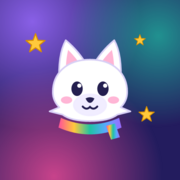
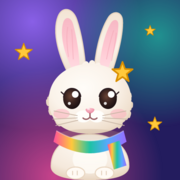
Redraw Luna as a cute, more realistic bunny
Replace the snow fox with a sitting bunny: shaded cream fur with soft
cheek fluff, tall ears with pink insides, glossy eyes with lids and
lashes, a pink nose, whiskers, muzzle puffs and paws. She keeps the
rainbow scarf and star clip. The app icons are redrawn to match, and
the offline cache now has an app revision so tablets pick up new icons.

Claude-Session: https://claude.ai/code/session_01DVXaZMoDDKzRyybnBRYQNy

diff --git a/index.html b/index.html
@@ -4,7 +4,7 @@
 <meta charset="utf-8">
 <meta name="viewport" content="width=device-width, initial-scale=1, viewport-fit=cover, user-scalable=no">
 <title>Word Snap Showdown</title>
-<meta name="description" content="A two-player reading race: Luna the snow fox says a word, and a young reader races a grown-up to tap it.">
+<meta name="description" content="A two-player reading race: Luna the bunny says a word, and a young reader races a grown-up to tap it.">
 <meta name="theme-color" content="#1c1748">
 <meta name="mobile-web-app-capable" content="yes">
 <meta name="apple-mobile-web-app-capable" content="yes">
@@ -78,7 +78,7 @@ button{font:inherit;color:inherit;cursor:pointer;touch-action:manipulation}
 .title .l{display:inline-block;color:var(--c);text-shadow:0 .07em 0 rgba(10,6,40,.5);animation:wave 2.6s ease-in-out infinite;animation-delay:calc(var(--i) * .09s)}
 .hello{margin:0;font-family:var(--font-display);font-weight:700;font-size:clamp(1.2rem,3.4vw,1.9rem);color:var(--frost)}
 .luna-wrap{position:relative;width:clamp(150px,40vmin,340px);max-width:100%;aspect-ratio:1;display:grid;place-items:center}
-.luna-btn{appearance:none;border:0;background:none;padding:0;width:74%;border-radius:50%}
+.luna-btn{appearance:none;border:0;background:none;padding:0;width:80%;border-radius:50%}
 .luna.idle svg{animation:float 3s ease-in-out infinite}
 .luna.idle.bounce svg{animation:hop .75s cubic-bezier(.3,1.5,.5,1)}
 .orbit{position:absolute;inset:0;pointer-events:none;animation:spin 12s linear infinite}
@@ -210,7 +210,7 @@ button{font:inherit;color:inherit;cursor:pointer;touch-action:manipulation}
 
 /* hub */
 .hub{display:flex;align-items:center;gap:12px;min-width:0;padding-inline:4px}
-.hub .luna{width:clamp(56px,9vw,86px);flex:none}
+.hub .luna{width:clamp(48px,7.4vw,72px);flex:none}
 .bubble{flex:1;min-width:0;background:var(--snow);color:var(--ink);font-family:var(--font-display);font-weight:700;font-size:clamp(1rem,2.7vw,1.55rem);line-height:1.2;padding:.55em .9em;border-radius:20px;position:relative;text-wrap:balance}
 .bubble::before{content:"";position:absolute;left:-11px;top:50%;margin-top:-10px;border-style:solid;border-width:10px 12px 10px 0;border-color:transparent var(--snow) transparent transparent}
 .round-btn{appearance:none;width:clamp(52px,8vw,72px);height:clamp(52px,8vw,72px);border-radius:50%;border:0;display:grid;place-items:center;flex:none;padding:0}
@@ -279,9 +279,13 @@ body{overscroll-behavior:none;-webkit-touch-callout:none;-webkit-text-size-adjus
 
 <svg width="0" height="0" style="position:absolute" aria-hidden="true" focusable="false">
   <defs>
-    <linearGradient id="lunaScarf" x1="0" x2="1" y1="0" y2="0">
-      <stop offset="0" stop-color="#ff4f9a"/><stop offset=".25" stop-color="#ffc93c"/><stop offset=".5" stop-color="#1fc3a5"/><stop offset=".75" stop-color="#5aa9ff"/><stop offset="1" stop-color="#9b6bff"/>
-    </linearGradient>
+<linearGradient id="lunaScarf" x1="0" x2="1" y1="0" y2="0"><stop offset="0" stop-color="#ff4f9a"/><stop offset=".25" stop-color="#ffc93c"/><stop offset=".5" stop-color="#1fc3a5"/><stop offset=".75" stop-color="#5aa9ff"/><stop offset="1" stop-color="#9b6bff"/></linearGradient>
+<radialGradient id="bunFur" cx=".42" cy=".34" r=".78"><stop offset="0" stop-color="#fffdf9"/><stop offset=".5" stop-color="#fbf3ea"/><stop offset=".82" stop-color="#efdfcd"/><stop offset="1" stop-color="#ddc6ad"/></radialGradient>
+<linearGradient id="bunEar" x1="0" x2="0" y1="0" y2="1"><stop offset="0" stop-color="#f2e3d2"/><stop offset=".55" stop-color="#fbf3ea"/><stop offset="1" stop-color="#efe0cf"/></linearGradient>
+<linearGradient id="bunEarIn" x1="0" x2="0" y1="0" y2="1"><stop offset="0" stop-color="#f7b8c4"/><stop offset=".6" stop-color="#ffc9d3"/><stop offset="1" stop-color="#ffdbe2"/></linearGradient>
+<radialGradient id="bunEye" cx=".42" cy=".38" r=".7"><stop offset="0" stop-color="#6b4436"/><stop offset=".45" stop-color="#3a2420"/><stop offset="1" stop-color="#140c0f"/></radialGradient>
+<radialGradient id="bunNose" cx=".45" cy=".3" r=".8"><stop offset="0" stop-color="#ffc2cf"/><stop offset="1" stop-color="#e57f98"/></radialGradient>
+<radialGradient id="bunBody" cx=".5" cy=".2" r=".9"><stop offset="0" stop-color="#fffcf7"/><stop offset=".7" stop-color="#f5e9dc"/><stop offset="1" stop-color="#e2ccb4"/></radialGradient>
   </defs>
 </svg>
 <div class="sky" aria-hidden="true"></div>
@@ -438,25 +442,7 @@ const starSvg=cls=>`<svg class="${cls||""}" viewBox="0 0 100 100" aria-hidden="t
 const SPEAKER=`<svg viewBox="0 0 24 24" aria-hidden="true"><path d="M3.5 9.2v5.6h3.9l5 4.2V5l-5 4.2z" fill="currentColor"/><path d="M15.6 8.6a4.8 4.8 0 0 1 0 6.8M18.2 6a8.4 8.4 0 0 1 0 12" fill="none" stroke="currentColor" stroke-width="2.2" stroke-linecap="round"/></svg>`;
 const PAUSE=`<svg viewBox="0 0 24 24" aria-hidden="true"><rect x="6" y="5" width="4" height="14" rx="1.5" fill="currentColor"/><rect x="14" y="5" width="4" height="14" rx="1.5" fill="currentColor"/></svg>`;
 const FLAKE=`<svg viewBox="0 0 48 48" aria-hidden="true"><g fill="none" stroke="currentColor" stroke-width="3.4" stroke-linecap="round"><path d="M24 4v40M6.7 14l34.6 20M6.7 34l34.6-20"/><path d="M18 8l6 5 6-5M18 40l6-5 6 5M7.5 21l7.3-1.2L12.2 13M40.5 27l-7.3 1.2 2.6 6.8M7.5 27l7.3 1.2-2.6 6.8M40.5 21l-7.3-1.2 2.6-6.8"/></g></svg>`;
-const LUNA=`<svg viewBox="0 0 120 134" aria-hidden="true">
-  <path d="M22 62 Q20 26 30 8 Q47 22 58 42 Z" fill="#fff" stroke="#d8d0f6" stroke-width="2" stroke-linejoin="round"/>
-  <path d="M98 62 Q100 26 90 8 Q73 22 62 42 Z" fill="#fff" stroke="#d8d0f6" stroke-width="2" stroke-linejoin="round"/>
-  <path d="M30 50 Q30 32 33 20 Q43 30 49 40 Z" fill="#ffb6d5"/>
-  <path d="M90 50 Q90 32 87 20 Q77 30 71 40 Z" fill="#ffb6d5"/>
-  <path d="M60 32 C90 32 106 50 106 72 C106 80 103 86 98 91 L110 96 L94 100 C86 106 74 108 60 108 C46 108 34 106 26 100 L10 96 L22 91 C17 86 14 80 14 72 C14 50 30 32 60 32 Z" fill="#fff" stroke="#d8d0f6" stroke-width="2" stroke-linejoin="round"/>
-  <ellipse cx="60" cy="88" rx="21" ry="14" fill="#f1edff"/>
-  <g class="luna-eyes">
-    <ellipse cx="44" cy="68" rx="7" ry="9" fill="#241f4f"/><ellipse cx="76" cy="68" rx="7" ry="9" fill="#241f4f"/>
-    <circle cx="46.8" cy="64.2" r="2.6" fill="#fff"/><circle cx="78.8" cy="64.2" r="2.6" fill="#fff"/>
-    <circle cx="42" cy="71.5" r="1.2" fill="#fff" opacity=".8"/><circle cx="74" cy="71.5" r="1.2" fill="#fff" opacity=".8"/>
-  </g>
-  <path d="M54.5 80 Q60 77 65.5 80 Q63 85.5 60 85.5 Q57 85.5 54.5 80 Z" fill="#241f4f"/>
-  <path d="M51 90 Q55.5 95 60 90.5 Q64.5 95 69 90" fill="none" stroke="#241f4f" stroke-width="2.4" stroke-linecap="round"/>
-  <ellipse cx="31" cy="82" rx="7" ry="4.5" fill="#ff8fc0" opacity=".65"/><ellipse cx="89" cy="82" rx="7" ry="4.5" fill="#ff8fc0" opacity=".65"/>
-  <path transform="translate(79 31) scale(.22)" d="${STAR_PATH}" fill="#ffc93c" stroke="#d98f00" stroke-width="7" stroke-linejoin="round"/>
-  <path d="M24 104 Q60 120 96 104 L99 116 Q60 133 21 116 Z" fill="url(#lunaScarf)"/>
-  <path d="M80 114 L86 131 L97 128 L91 111 Z" fill="url(#lunaScarf)"/>
-</svg>`;
+const LUNA=`<svg viewBox="0 0 120 150" aria-hidden="true"><path d="M26.5 138C26.5 122 40 110.5 60 110.5C80 110.5 93.5 122 93.5 138C93.5 146.5 80 149.6 60 149.6C40 149.6 26.5 146.5 26.5 138Z" fill="url(#bunBody)" stroke="#e9d6c1" stroke-width=".9"/><ellipse cx="60" cy="132" rx="15" ry="12.5" fill="#fffdf9" opacity=".75"/><path d="M43 61C33.5 45 27 23 32.5 9C36 0 45 1.5 48.5 11.5C53 25 55.5 42 56.5 57Z" fill="url(#bunEar)" stroke="#e9d6c1" stroke-width="1"/><path d="M44.5 54.5C38 41 33.5 25 37 14C38.8 8.6 43.6 9.4 45.4 15.5C48.6 27 50.6 40 51 52Z" fill="url(#bunEarIn)"/><path d="M41.5 44C40 34 39.5 25 40.8 18M45.6 46C45 36 44.8 27 44.2 20" fill="none" stroke="#f3a3b3" stroke-width=".7" opacity=".55"/><path d="M63.5 57C64.5 41 68 23 75.5 10.5C79.5 3.5 87.5 4.5 88 12.5C88.6 26 83.5 44 77.5 61Z" fill="url(#bunEar)" stroke="#e9d6c1" stroke-width="1"/><path d="M68 53C69.2 40 72.2 25 77.8 15C80.4 10.6 84.4 11.4 84.4 15.8C84.4 28 80.4 41 75.6 54Z" fill="url(#bunEarIn)"/><path d="M74.2 46C76 36 78.4 27 80.4 21M78.6 47.5C80.4 38 82.2 30 82.6 23" fill="none" stroke="#f3a3b3" stroke-width=".7" opacity=".55"/><path d="M92.2 74.9C95 74.2 95.3 74.2 95.8 76.5C96.3 78.8 96.1 79.4 93.3 80ZM93.1 77.9C95.3 77.7 95.4 77 95.7 79.1C95.9 81.1 95.8 82.3 93.6 82.5ZM93.6 82C97 82.3 97.3 83.1 97.1 85.7C96.9 88.3 96.6 88 93.2 87.7ZM93.4 85.2C96.1 85.7 96.4 85.6 96 87.8C95.6 90.1 95.2 90.7 92.5 90.2ZM92.4 89.3C96.1 90.7 95.8 92.6 94.8 95.2C93.9 97.8 93.9 96.4 90.3 95.1ZM91.1 92.3C94 93.8 94.1 94.4 92.9 96.7C91.8 98.9 91.5 98.7 88.6 97.3ZM89.4 95.2C91.5 96.6 92 96.4 90.7 98.3C89.5 100.2 88.8 100.7 86.7 99.3ZM86.4 98.7C89.1 101.3 88.3 102.7 86.5 104.7C84.6 106.6 84.9 105.7 82.2 103.1Z" fill="#e9d6c1"/><path d="M36.6 102.2C33.9 104.6 32.9 104 31.2 102C29.5 100 30.1 100.2 32.8 97.8ZM33.9 99.9C31.6 101.6 31.3 101.8 30 99.8C28.6 97.9 28.6 97.3 31 95.6ZM31.6 97.4C29.7 98.5 29.8 99.2 28.8 97.3C27.8 95.5 27.5 94.4 29.4 93.3ZM29.1 93.8C25.8 94.9 25.2 94.2 24.4 91.7C23.6 89.3 24.1 89.4 27.3 88.4ZM27.7 90.8C25.1 91.4 24.8 91.6 24.3 89.4C23.9 87.1 24 86.4 26.7 85.8ZM26.6 86.8C22.7 86.9 22.2 85 22.1 82.3C22.1 79.5 22.5 80.8 26.4 80.7ZM26.4 83.6C23.2 83.4 22.8 82.8 23 80.3C23.3 77.8 23.6 77.8 26.8 78.1ZM26.6 80.5C24.1 80 23.8 80.3 24.2 78.1C24.6 75.9 25.1 75.1 27.6 75.6Z" fill="#e9d6c1"/><path d="M60 50C80.5 50 95 62.5 95.5 80C96 94.5 88 106 72 109C66 110.5 54 110.5 48 109C32 106 24 94.5 24.5 80C25 62.5 39.5 50 60 50Z" fill="url(#bunFur)"/><path d="M52 52.5C54 47.5 57.5 46 59 49.5C60 45.5 64 45.8 64.6 50C66.8 47.6 70 48.6 69 52.8C64 51 57 51 52 52.5Z" fill="#fbf3ea"/><ellipse cx="35.5" cy="93" rx="7" ry="4.3" fill="#ff9fb5" opacity=".42"/><ellipse cx="84.5" cy="93" rx="7" ry="4.3" fill="#ff9fb5" opacity=".42"/><g class="luna-eyes"><ellipse cx="44.5" cy="80" rx="7.6" ry="8.8" fill="url(#bunEye)"/><ellipse cx="75.5" cy="80" rx="7.6" ry="8.8" fill="url(#bunEye)"/><circle cx="47.3" cy="76.2" r="2.9" fill="#fff"/><circle cx="78.3" cy="76.2" r="2.9" fill="#fff"/><circle cx="42.2" cy="84" r="1.3" fill="#fff" opacity=".85"/><circle cx="73.2" cy="84" r="1.3" fill="#fff" opacity=".85"/><path d="M37.2 78.6C38 72.6 42 71 44.6 71.1C48.6 71.2 51.6 74.4 52 78M37.4 76.2L35.2 74.2M68 78C68.4 74.4 71.4 71.2 75.4 71.1C78 71 82 72.6 82.8 78.6M82.6 76.2L84.8 74.2" fill="none" stroke="#2a1b20" stroke-width="1" stroke-linecap="round"/></g><ellipse cx="54.2" cy="95.2" rx="6.8" ry="5.2" fill="#fffefb"/><ellipse cx="65.8" cy="95.2" rx="6.8" ry="5.2" fill="#fffefb"/><path d="M49 94.5L29 90.5M49 96.5L28 97.5M49.5 98.5L30.5 103M71 94.5L91 90.5M71 96.5L92 97.5M70.5 98.5L89.5 103" fill="none" stroke="#c9b6a6" stroke-width=".75" stroke-linecap="round" opacity=".9"/><path d="M56.2 89.3C56.2 87.6 63.8 87.6 63.8 89.3C63.8 91 61.3 92.7 60 92.7C58.7 92.7 56.2 91 56.2 89.3Z" fill="url(#bunNose)"/><ellipse cx="58.6" cy="88.7" rx="1.3" ry=".7" fill="#fff" opacity=".7"/><path d="M60 92.7V95.6M60 95.6C58.6 98 55.6 98.3 54 96.6M60 95.6C61.4 98 64.4 98.3 66 96.6" fill="none" stroke="#9a6267" stroke-width="1.15" stroke-linecap="round"/><ellipse cx="60" cy="111" rx="27" ry="5" fill="#b89a7c" opacity=".25"/><path d="M31 107.5Q60 125 89 107.5L91.5 117Q60 137 28.5 117Z" fill="url(#lunaScarf)"/><path d="M75 119.5L80.5 141L91.5 137.5L85.5 116Z" fill="url(#lunaScarf)"/><path d="M31 107.5Q60 125 89 107.5" fill="none" stroke="#fff" stroke-width="1" opacity=".35"/><ellipse cx="47.5" cy="144" rx="8" ry="5.2" fill="#fffaf4" stroke="#e9d6c1" stroke-width=".9"/><ellipse cx="72.5" cy="144" rx="8" ry="5.2" fill="#fffaf4" stroke="#e9d6c1" stroke-width=".9"/><path d="M45 142.5V145.5M49 142.3V145.6M70 142.3V145.6M74 142.5V145.5" stroke="#e3cfbb" stroke-width=".8" stroke-linecap="round"/><path transform="translate(78 47) scale(.2)" d="M50 6 L61.2 36.6 L93.7 37.8 L68.1 57.9 L77 89.2 L50 71 L23 89.2 L31.9 57.9 L6.3 37.8 L38.8 36.6 Z" fill="#ffc93c" stroke="#d98f00" stroke-width="7" stroke-linejoin="round"/></svg>`;
 
 /* ---------- words ---------- */
 const CVC="cat hat bat mat rat sat pat can fan man pan ran van cap map tap nap bag rag tag bad dad sad had mad jam ham bed red fed hen pen ten men net pet wet jet get leg beg web pig big dig wig fig pin bin tin win fin sit hit bit kit fit lip hip dip zip kid lid hid mix six fix dog log fog hog jog hot pot dot got lot top hop mop pop box fox sun run bun fun bug hug mug rug jug cup pup cut hut nut bus tub cub rub mud".split(" ");

diff --git a/sw.js b/sw.js
@@ -1,7 +1,9 @@
 // Keeps Word Snap Showdown playable offline. The game page is fetched fresh when online
 // (so updates show up), with the saved copy used when there is no internet.
 // Luna's voice clips (listed in audio/list.json) are saved in the background on first open.
-const CACHE = "word-snap-90fa4d92";  // set by tools/make_voice.py to the voice version
+const VOICE = "word-snap-90fa4d92";  // set by tools/make_voice.py to the voice version
+const APP_REV = "r2";  // bump when icons or fonts change
+const CACHE = VOICE + "-" + APP_REV;
 const FILES = [
   "./", "index.html", "manifest.webmanifest", "audio/list.json",
   "fonts/andika-400.woff2", "fonts/andika-700.woff2",

diff --git a/tools/make_voice.py b/tools/make_voice.py
@@ -135,7 +135,7 @@ def stamp_version(version):
     """Point the game and the offline cache at this set of clips, so tablets drop old recordings."""
     for name, pattern, repl in (
         ("index.html", r'const VOICE_VERSION="[^"]*";', f'const VOICE_VERSION="{version}";'),
-        ("sw.js", r'const CACHE = "word-snap-[^"]*";', f'const CACHE = "word-snap-{version}";'),
+        ("sw.js", r'const VOICE = "word-snap-[^"]*";', f'const VOICE = "word-snap-{version}";'),
     ):
         path = os.path.join(ROOT, name)
         text = open(path, encoding="utf-8").read()

diff --git a/README.md b/README.md
@@ -1,6 +1,6 @@
 # Word Snap Showdown
 
-A two-player reading race for a young reader and a grown-up. Luna the snow fox says a word, both players race to tap it, and the grown-up's cards appear after an adjustable head start.
+A two-player reading race for a young reader and a grown-up. Luna the bunny says a word, both players race to tap it, and the grown-up's cards appear after an adjustable head start.
 
 ## Play
 
